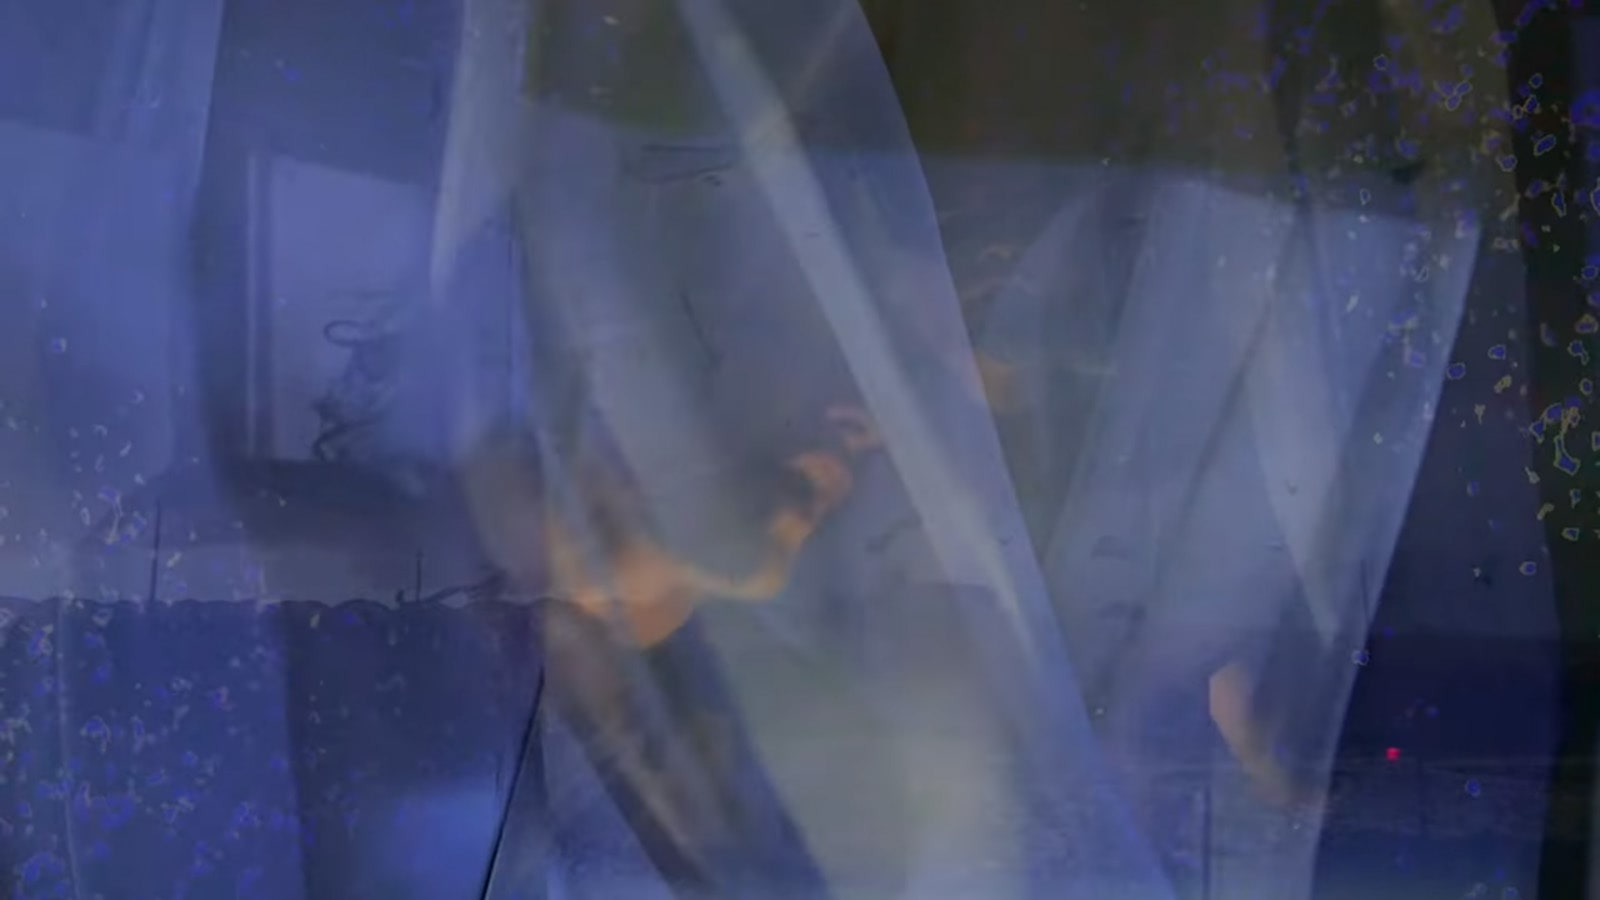
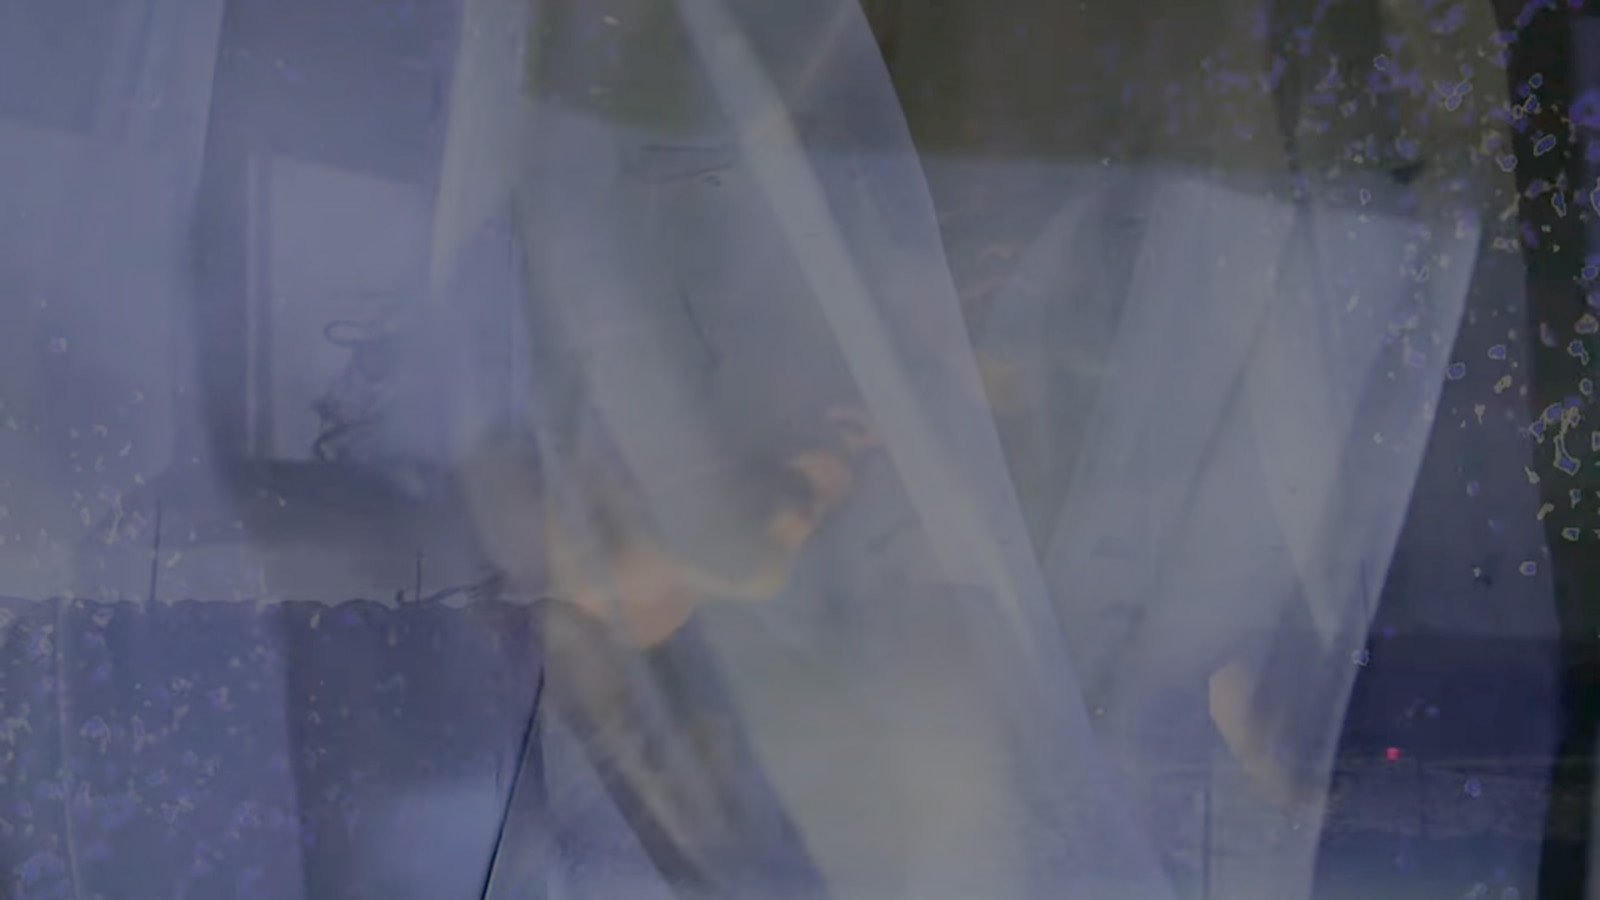
about y music fondos

diff --git a/assets/scss/_reset.scss b/assets/scss/_reset.scss
@@ -19,7 +19,7 @@
 
 .header-music {
     @extend .header-inicio;
-    background-image: url(../img/33-min-min.jpg);
+    background-image: url(../img/33-min.jpg);
 }
 
 .header-about {

diff --git a/assets/css/stylesheet.css b/assets/css/stylesheet.css
@@ -17,7 +17,7 @@
 }
 
 .header-music {
-  background-image: url(../img/33-min-min.jpg);
+  background-image: url(../img/33-min.jpg);
 }
 
 .header-about {
